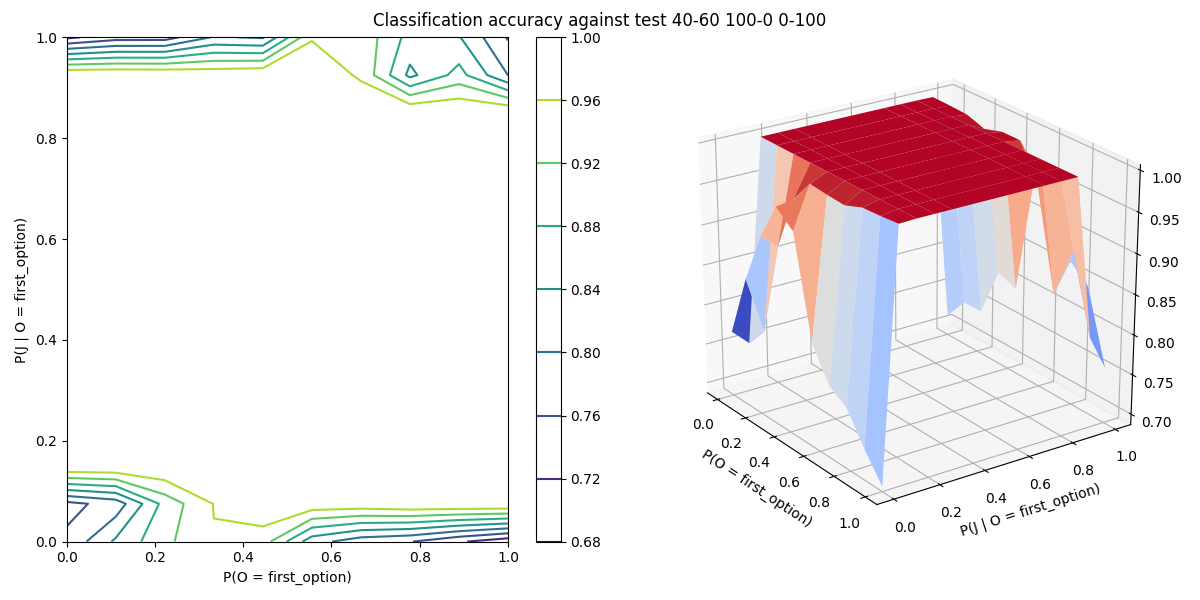
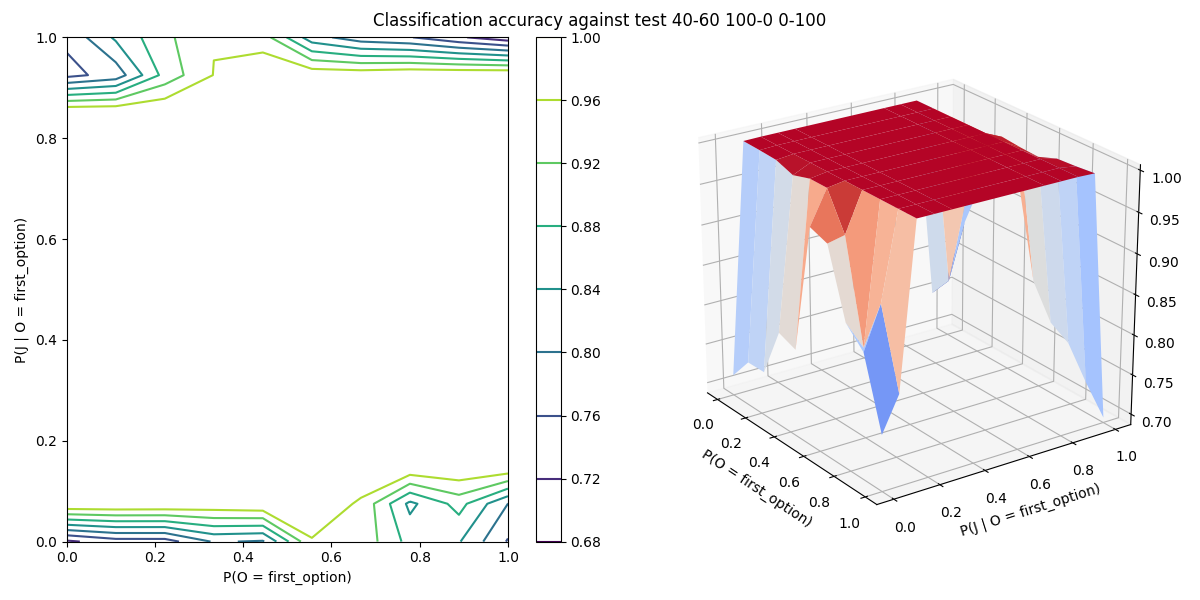
Regenerate figures with new axes

diff --git a/scan_dense_results.py b/scan_dense_results.py
@@ -79,7 +79,7 @@ def format_name_for_latex(filename: str) -> str:
 
 
 if __name__ == '__main__':
-    test_name = "test 40-60 100-0 0-100"
+    test_name = "test 50-50 50-50 50-50"
     with open("dense results for " + test_name, "r") as f:
         data = f.readlines()
 
